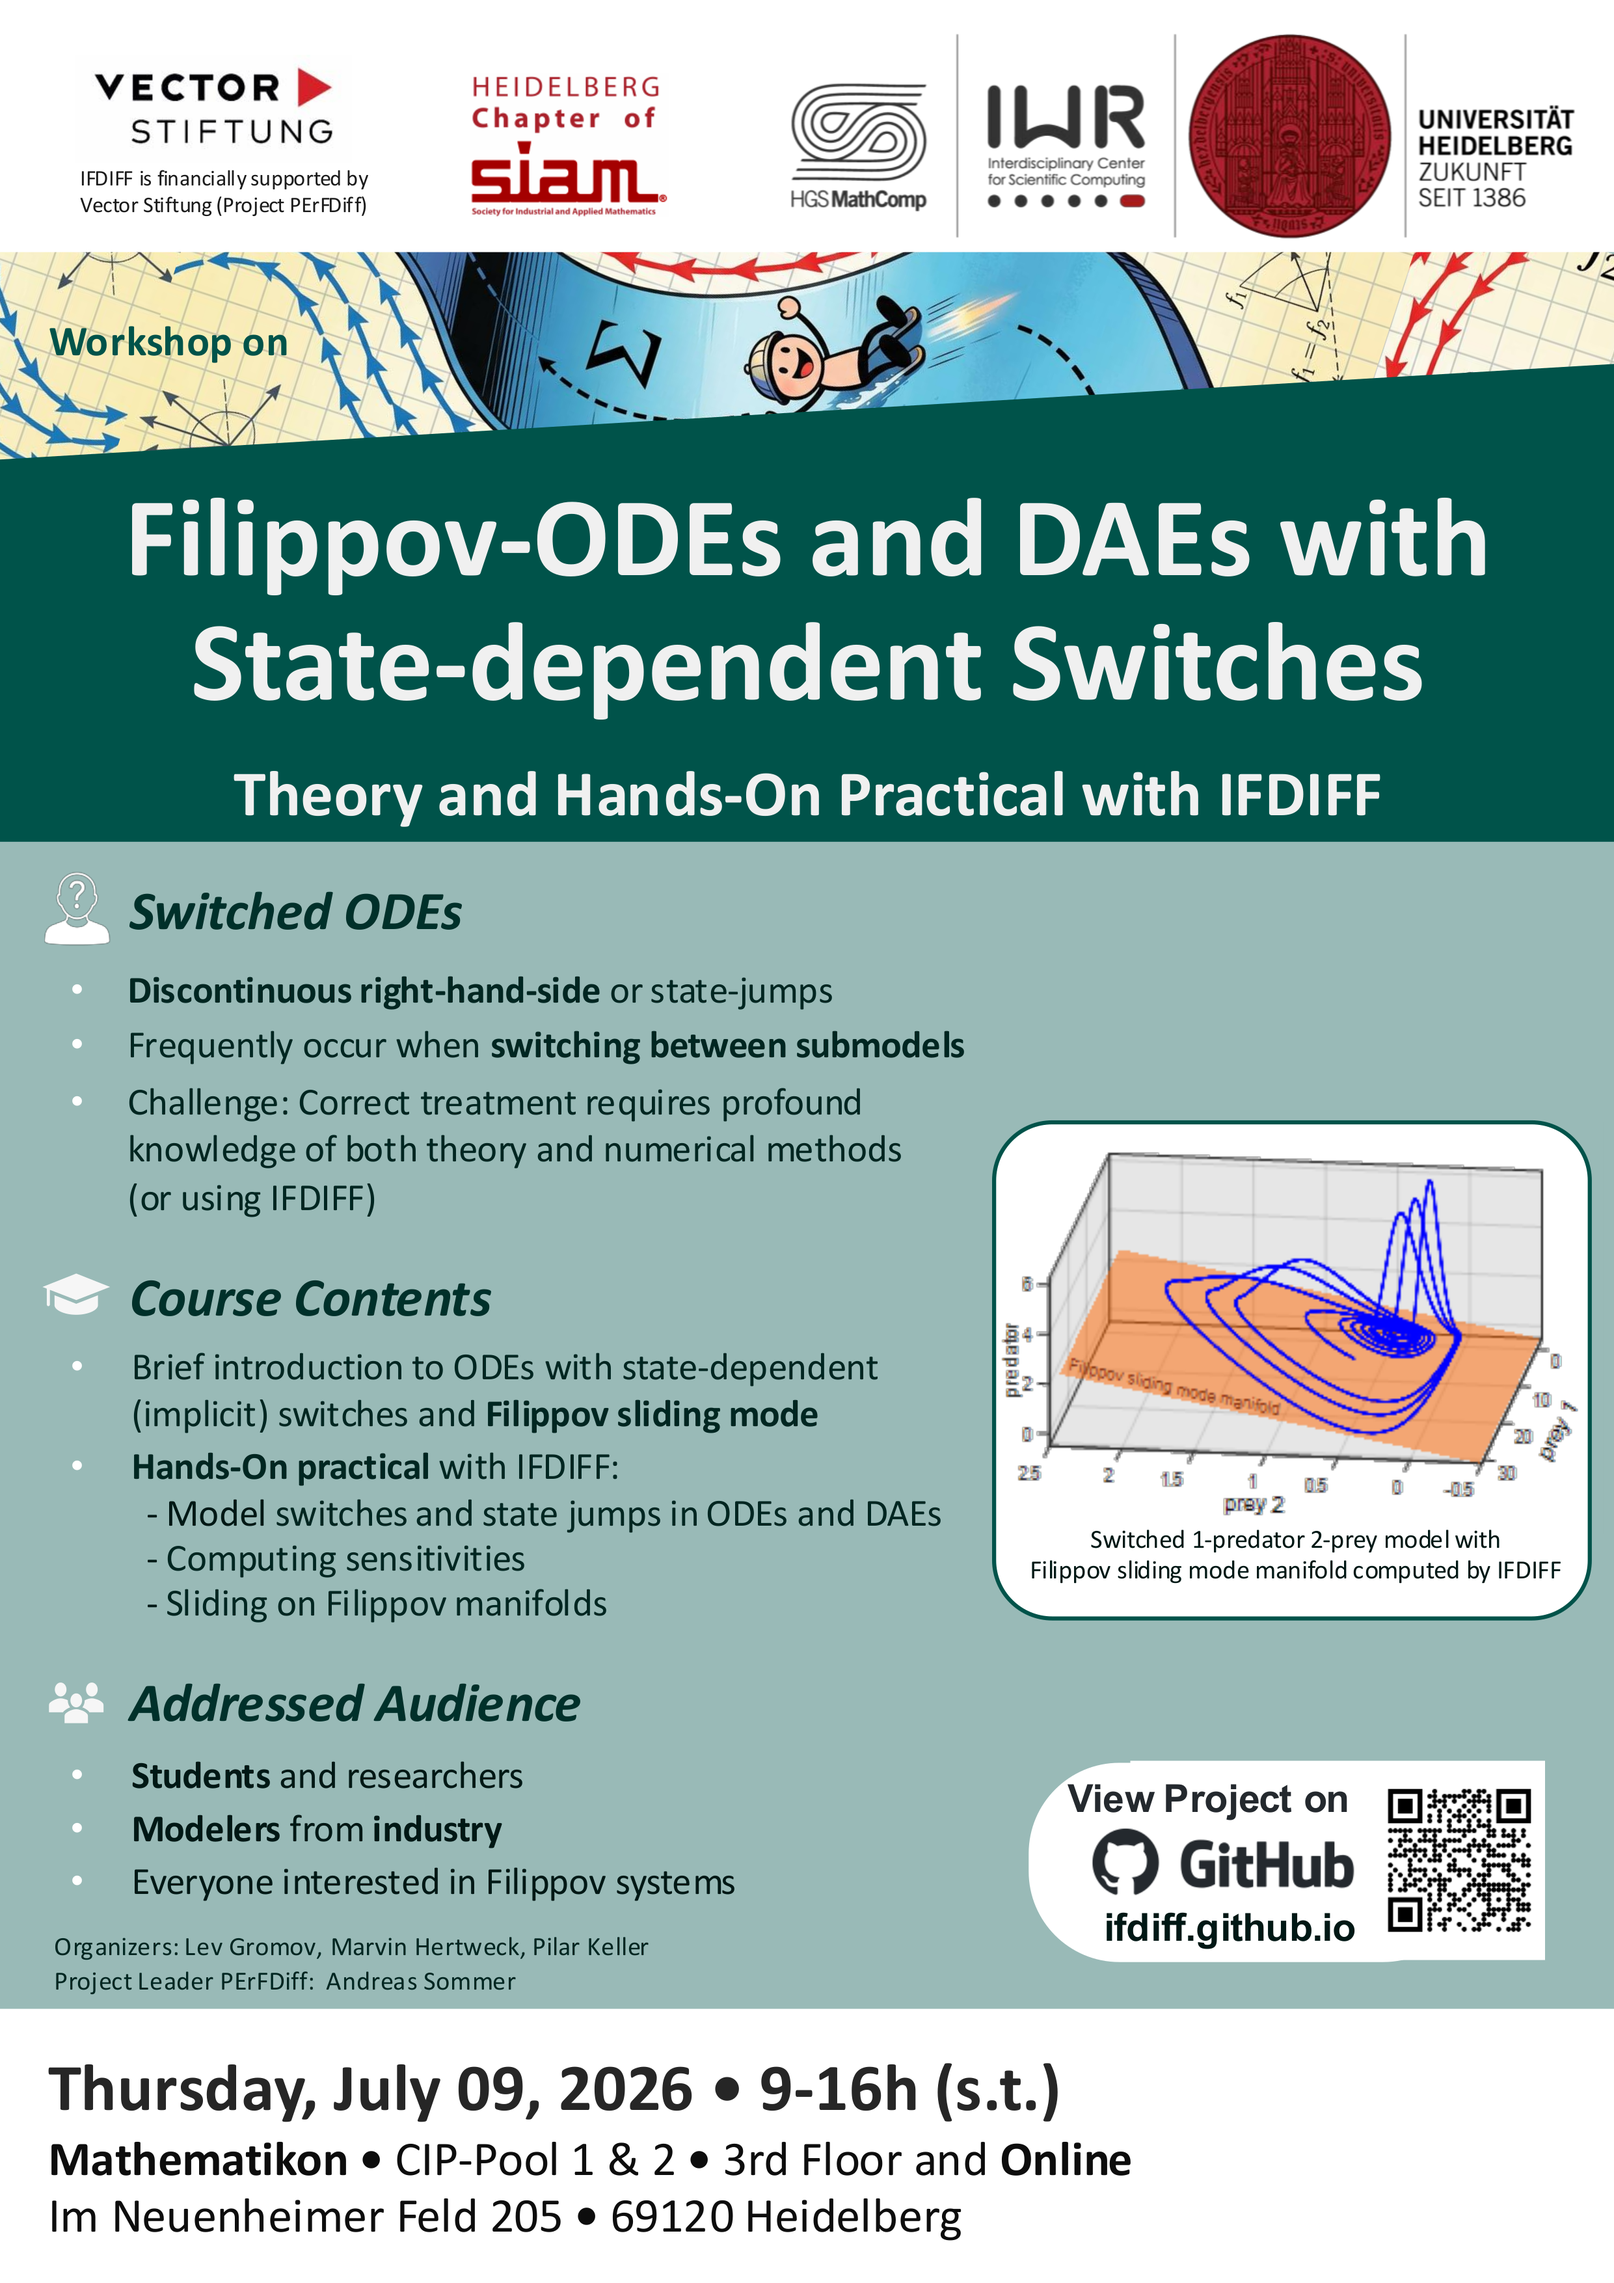
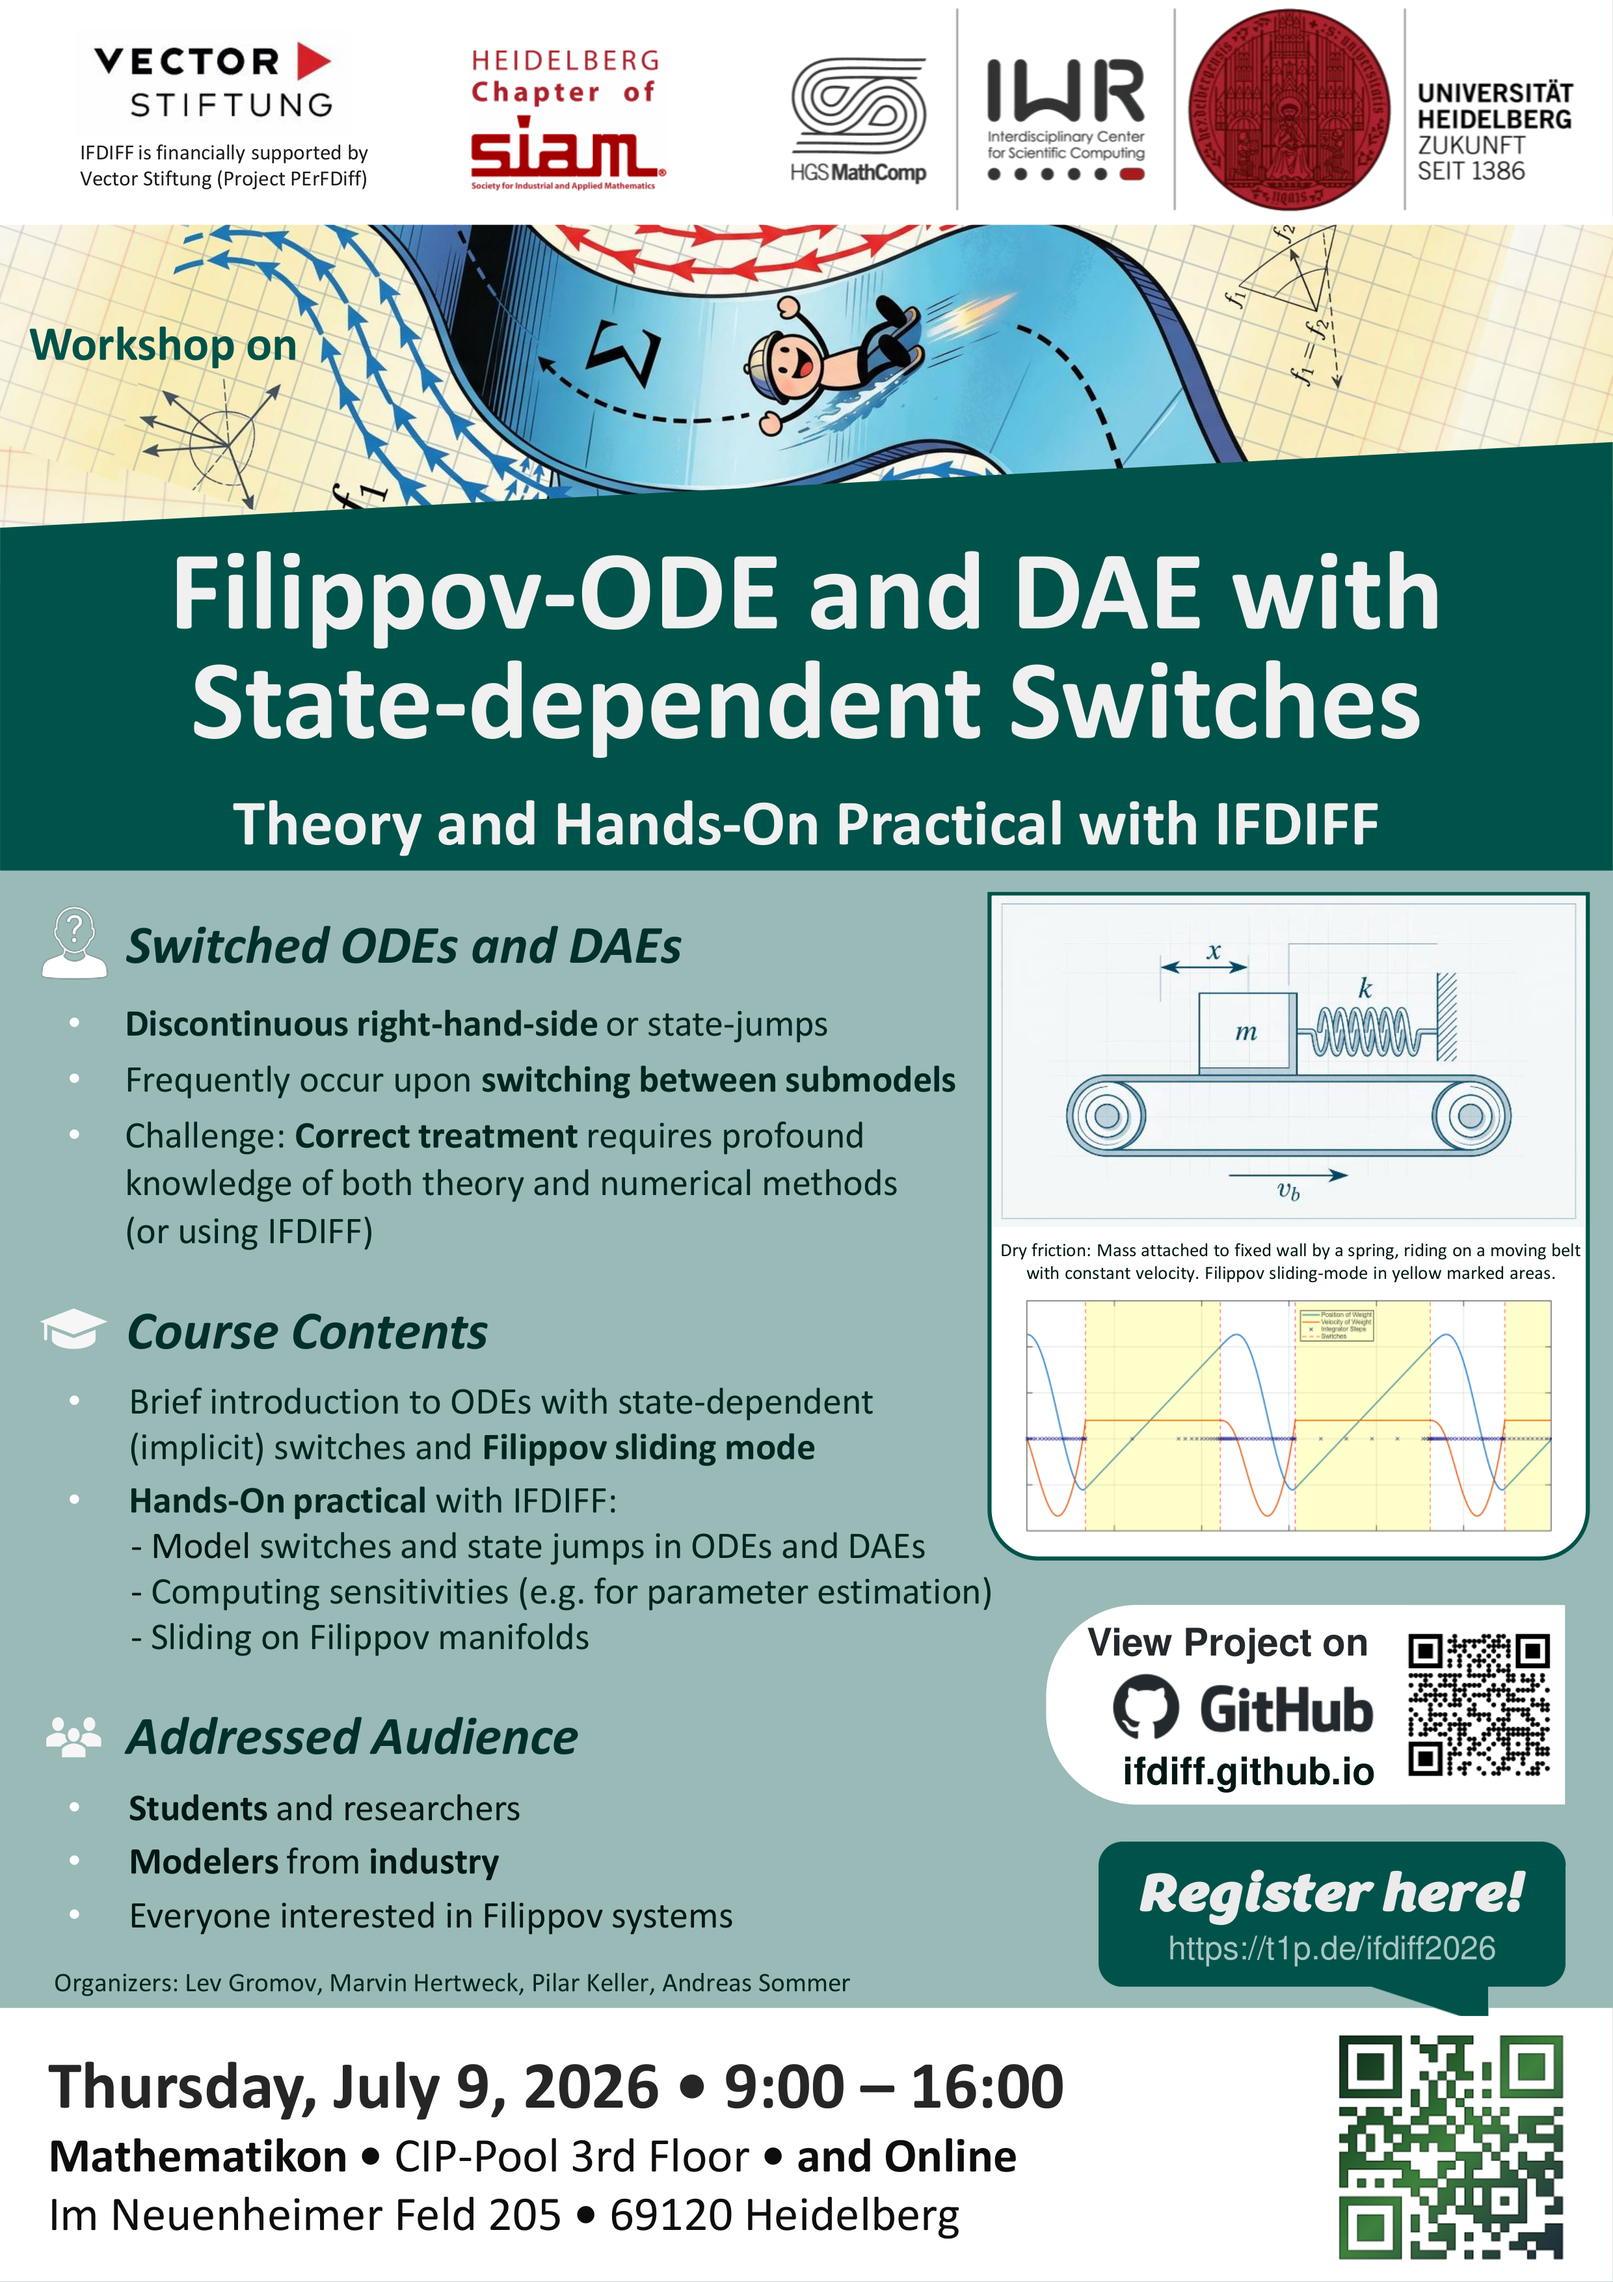
Changes in Workshop Announcements in README, index. Added registration, new posters.

diff --git a/README.md b/README.md
@@ -7,7 +7,9 @@
 Time: 9–16h • Place: CIP Pool 1 & 2 • 3rd Floor • Mathematikon
 Im Neuenheimer Feld 205 • 69120 Heidelberg and **Online**
 
-Participation is free. Registration will be open soon!
+Participation is free. Register here: https://t1p.de/ifdiff2026
+
+
 # IFDIFF - A MATLAB Toolkit for ODEs with State˗Dependent Switches
 [![Open in MATLAB Online](https://www.mathworks.com/images/responsive/global/open-in-matlab-online.svg)](https://matlab.mathworks.com/open/github/v1?repo=andreassommer/ifdiff&file=toolbox/doc/GettingStarted.mlx)
 

diff --git a/docs/index.md b/docs/index.md
@@ -2,12 +2,13 @@
 ## Filippov-ODEs and DAEs with State-dependent Switches
 
 **Theory and Hands-On Practical with IFDIFF**
+
 **Thursday, July 09, 2026**
 
 Time: 9–16h • CIP Pool 1 & 2 • 3rd Floor • Mathematikon
-Im Neuenheimer Feld 205 • 69120 Heidelberg
+Im Neuenheimer Feld 205 • 69120 Heidelberg • and **Online**
 
-Participation is free. Registration will be open soon!
+Participation is free. Register here: https://t1p.de/ifdiff2026
 
 ![Poster](ifdiff-workshop-2026-poster.png)
 ![Program](ifdiff-workshop-2026-program.png)
